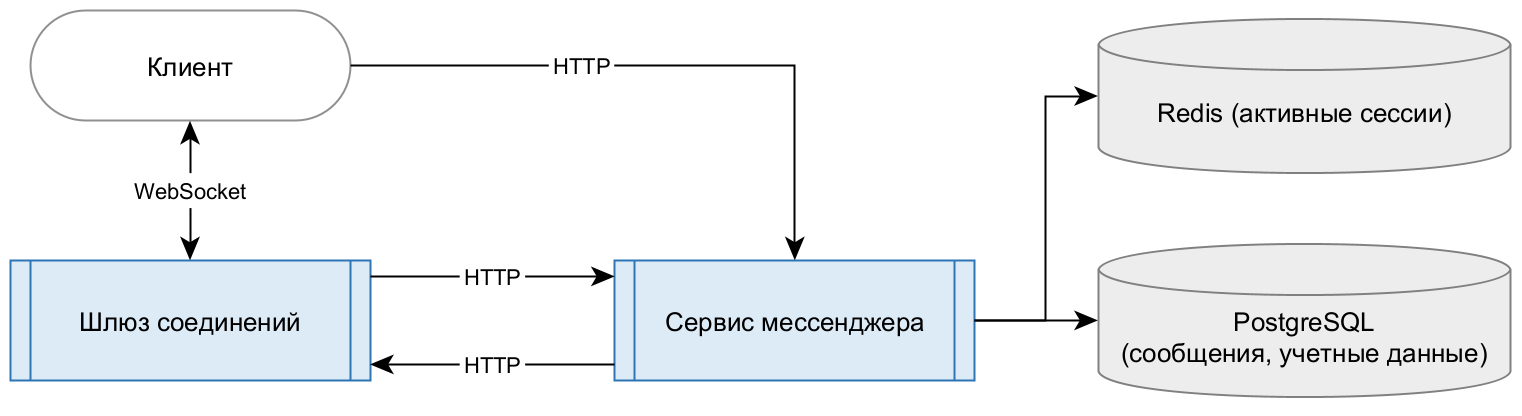
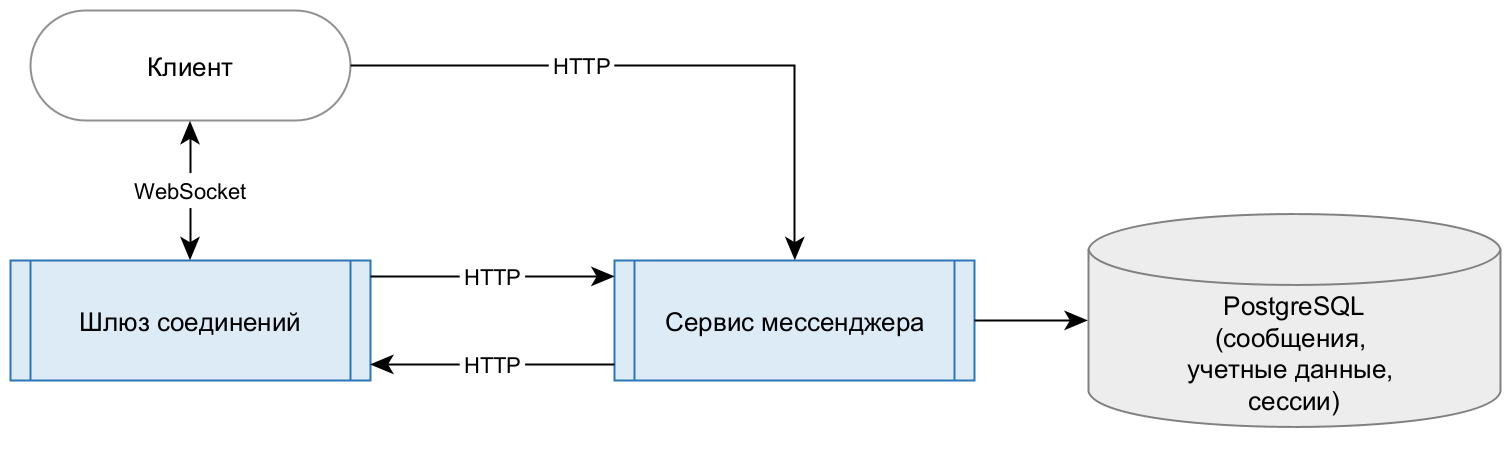
docs: enhance docs

diff --git a/docs/design/decisions.md b/docs/design/decisions.md
@@ -29,17 +29,39 @@
 
 ## Авторизация пользователя
 
+**Создание аккаунта**
+
+Аккаунт создается по паре `логин-пароль`.
+В базе данных пароль хеширован по алгоритму `argon2id` с параметрами `m = 19 МиБ, t = 2, p = 1`
+(минимальная рекомендация OWASP), соль `16` байт на каждого пользователя, длина хеша `32` байта.
+Хеш хранится в формате PHC (`$argon2id$v=19$m=19456,t=2,p=1$<соль>$<хеш>`): параметры записаны
+рядом с хешем, поэтому их можно усилить позже без миграции существующих паролей.
+
+**Токены доступа**
+
+Для токенов выбран формат `JWT`. Причина: возможность разместить в токене необходимую информацию без необходимости запроса из СУБД.
+
+Токены делятся на токены `доступа` и `обновления`.
+
+Поля токенов:
+- ID пользователя
+- ID сессии
+- тип (доступа или обновления)
+
+Служебные поля - время истечения.
+
+Алгоритм подписи - `HS256`. Секрет известен только сервису мессенджера: шлюз проверяет токены через него.
+
 **Получение токена**
 
-Через сервис мессенджера пользователь получает два токена: токен авторизации и токен обновления (refresh).
+Через сервис мессенджера пользователь получает два JWT токена: токен авторизации и токен обновления (refresh).
 
 Время жизни: `15` минут и `7` дней для токена и токена обновления соответственно.
 
-Обновление токена выполняется в этом же сервисе.
+Обновление токена выполняется в этом же сервисе. При обновлении токена выдается также новый токен обновления, а предыдущий инвалидируется.
 Вместе с токенами передается ID сессии.
 
-Сессия и хеш токена обновления хранятся в `PostgreSQL`. Хранится именно хеш:
-утечка базы не должна давать возможности продлевать чужие сессии.
+Сессия и хеш токена обновления хранятся в `PostgreSQL`.
 
 **Авторизация по токену**
 
@@ -48,6 +70,8 @@
 Клиент -> Сервис мессенджера [HTTP Bearer]
 
 Клиент -> Шлюз [Сообщение с токеном] -> Проверка токена в сервисе мессенджера [POST запрос]
+
+При каждом запросе к сервису мессенджера, выполняется проверка отсутствия сессии в списке отозванных.
 
 **Отзыв сессии**
 
@@ -60,11 +84,16 @@
 - другие случаи.
 
 В таком случае:
-1. в базе данных инвалидируется токен обновления сессии;
-2. в базу данных отозванных сессий записывается хеш токена, сессия которого отозвана (в MVP - в память сервиса мессенджера);
+1. в базе данных мессенджера инвалидируется сессия установкой `revoked_at`;
+2. в базе данных отозванных сессий добавляется ID отозванной сессии с TTL (в MVP - в память процесса сервиса мессенджера);
 3. шлюзу соединений отправляется запрос на разрыв соединения с пользователем указанной сессии.
 
-При приближении времени сессии к истечению (ближе, чем за 30 секунд), шлюз запрашивает у пользователя повторную авторизацию. При отсутствии сообщения авторизации, спустя это время сессия будет инвалидирована и шлюз закроет соединение.
+При перезапуске сервиса мессенджера необходимо загрузить в базу данных отозванных сессий (в MVP - в память) ID всех
+сессий, отозванных менее 15 минут назад.
+Остальные сессии и так истекли.
+
+При приближении времени сессии к истечению (ближе, чем за 30 секунд), шлюз запрашивает у пользователя повторную авторизацию. 
+При отсутствии сообщения авторизации, срок действия токена доступа сессии истечет и шлюз закроет соединение.
 
 ## Процесс передачи сообщений
 
@@ -120,6 +149,8 @@
 
 Клиентский UUID сообщения сохраняется между повторными отправками.
 Сервис мессенджера не отправляет несколько сообщений с одним клиентским ID => отправка не дублируется.
+
+Уникальная пара не учитывает чат. Клиент обязуется не использовать одинаковые UUID для сообщений даже в разных чатах.
 
 При отправке с конфликтом по `clientMessageId`, *возвращается успешный ответ с уже существующим `seqnum`*.
 

diff --git a/docs/implementation/scenarios.md b/docs/implementation/scenarios.md
@@ -1,6 +1,7 @@
 # Сценарии взаимодействия
 
-В рамках MVP принято, что чат открыт польователем исключительно на одном устройстве в один момент времени.
+В рамках MVP принято, что чат открыт пользователем исключительно на одном устройстве в один момент времени.
+События, связанные с добавлением/удалением из чата, удалением самого чата и другими событиями, не связанными с доставкой сообщений, не передаются в режиме реального времени.
 
 ## Подключение с аутентификацией
 
@@ -10,14 +11,11 @@ sequenceDiagram
     participant C as Клиент
     participant G as Шлюз соединений
     participant M as Сервис мессенджера
-    participant P as PostgreSQL
 
     C->>G: WebSocket handshake
     G-->>C: соединение открыто
     C->>G: token
     G->>M: POST /sessions/validate
-    M->>P: запрос сессии
-    P-->>M: состояние сессии
     alt сессия валидна
         M-->>G: 200
         G-->>C: соединение аутентифицировано
